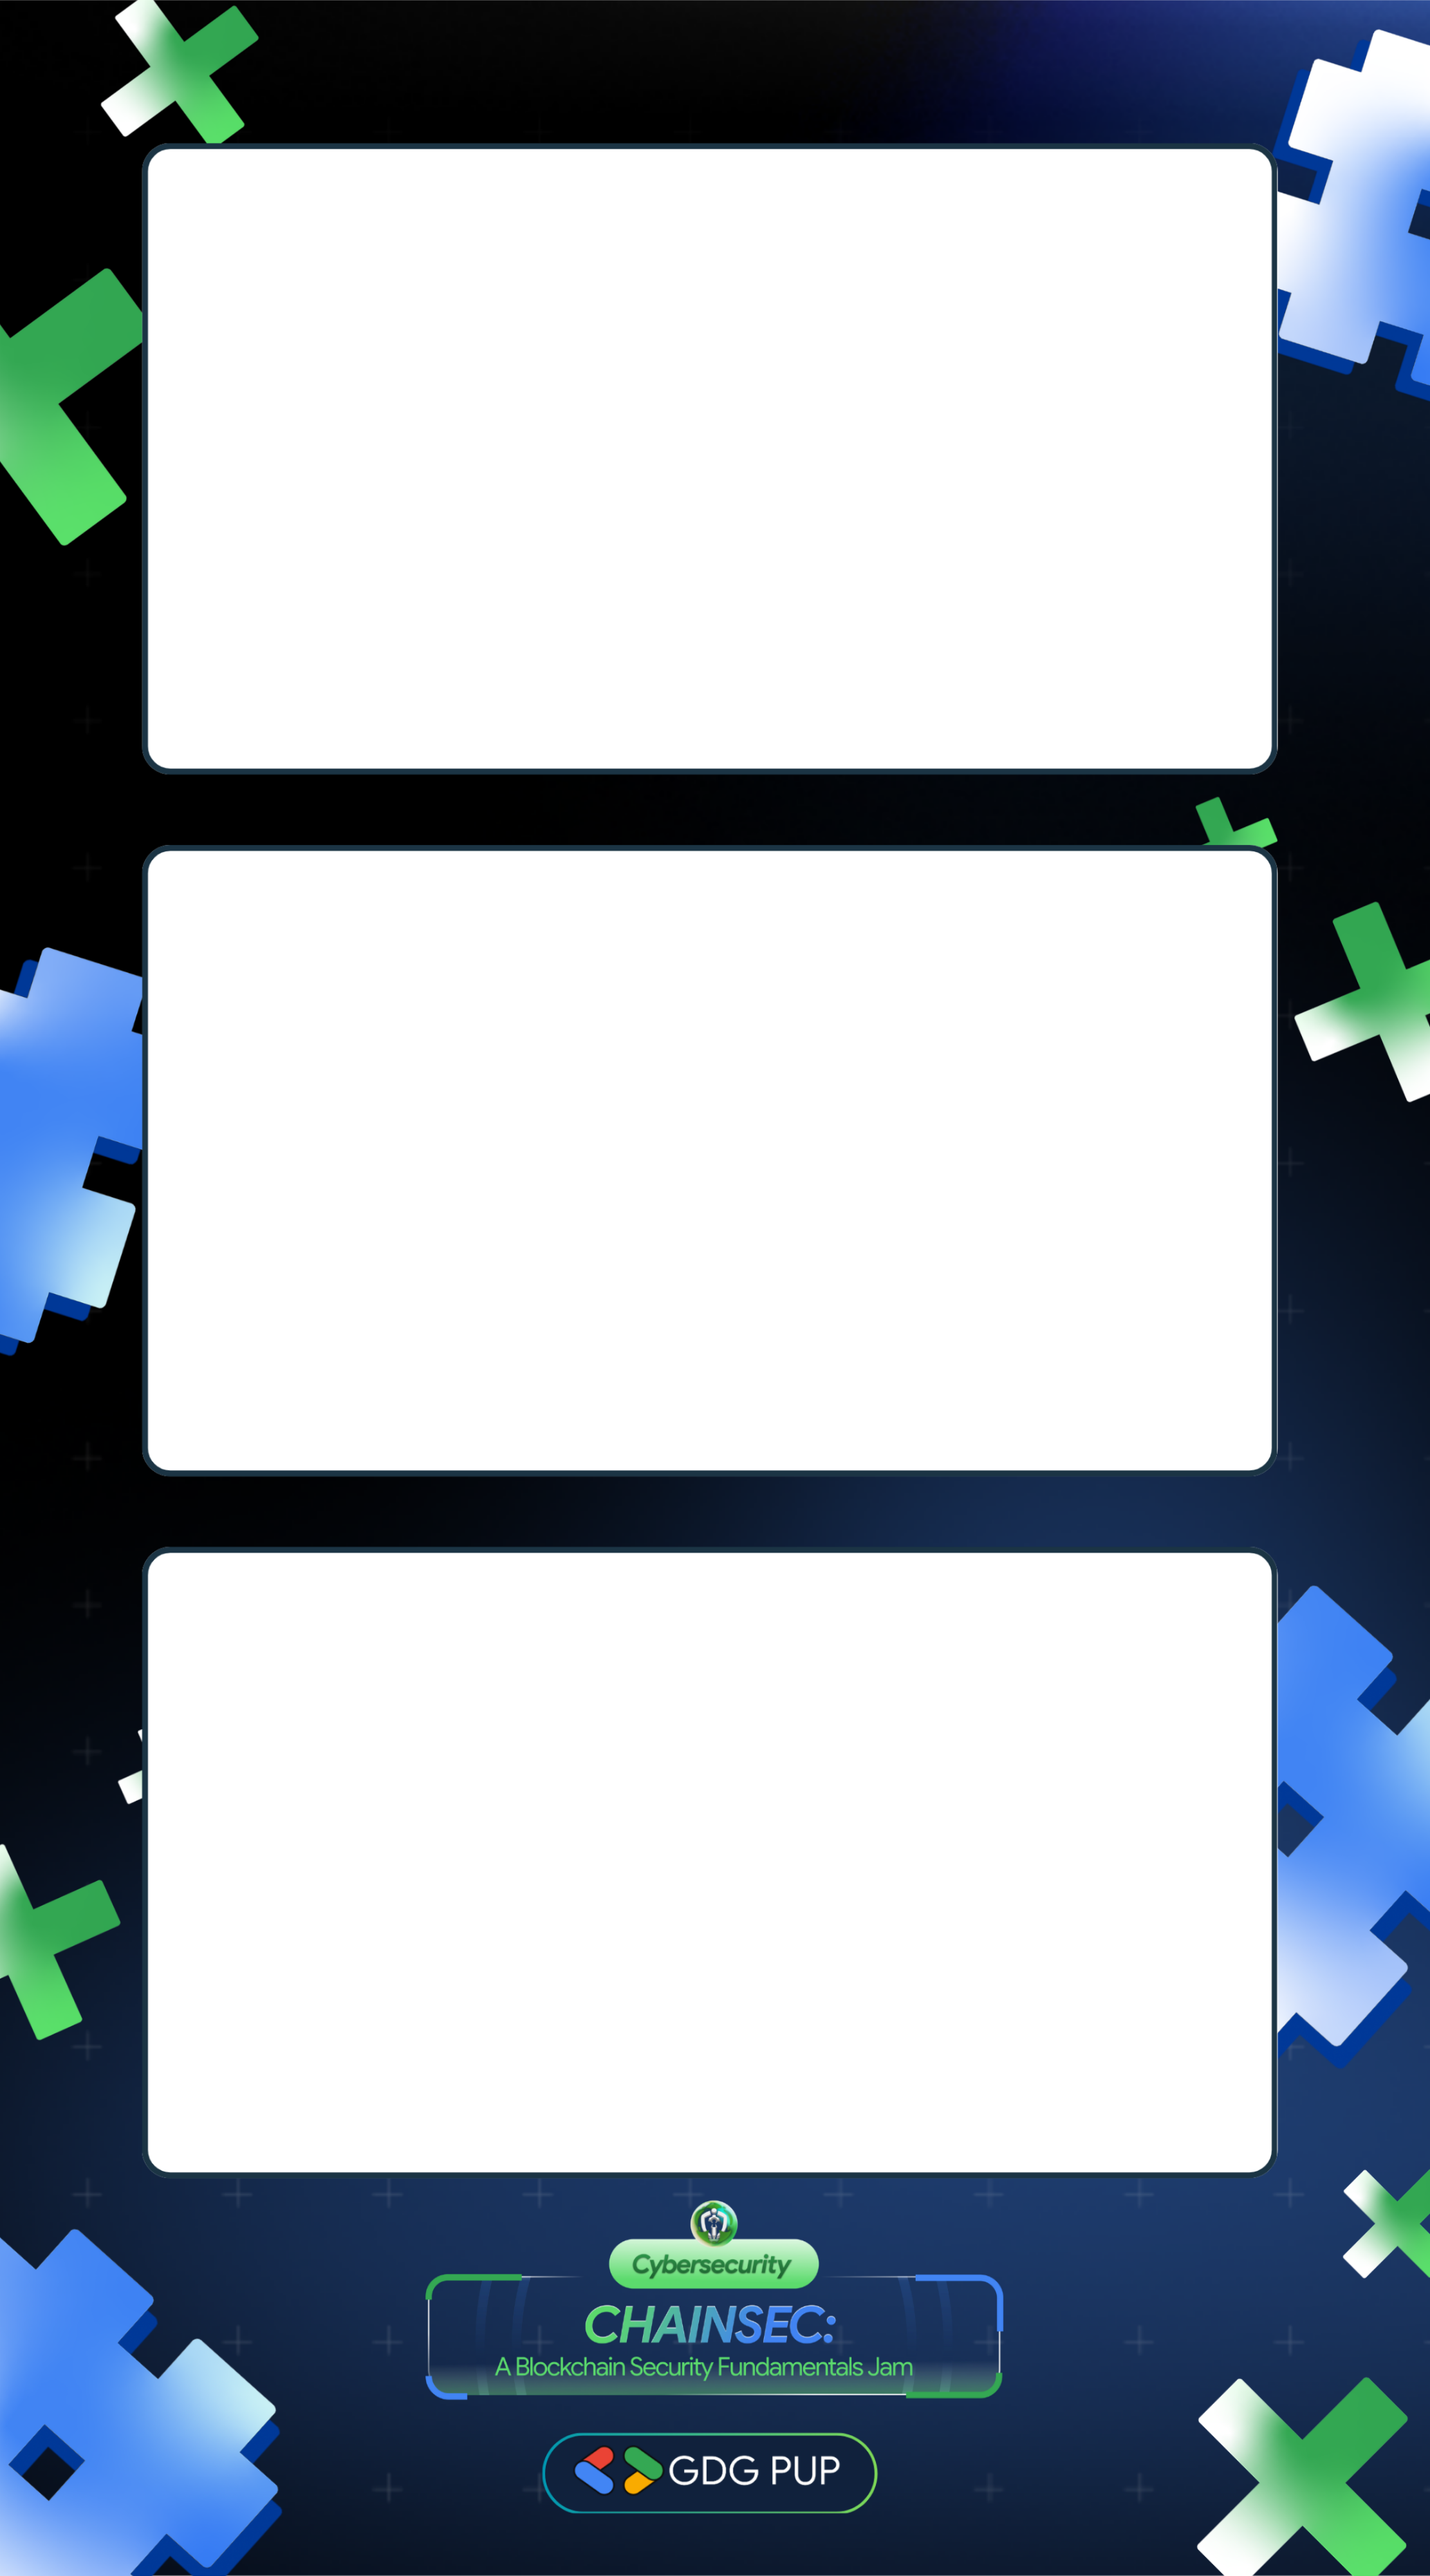
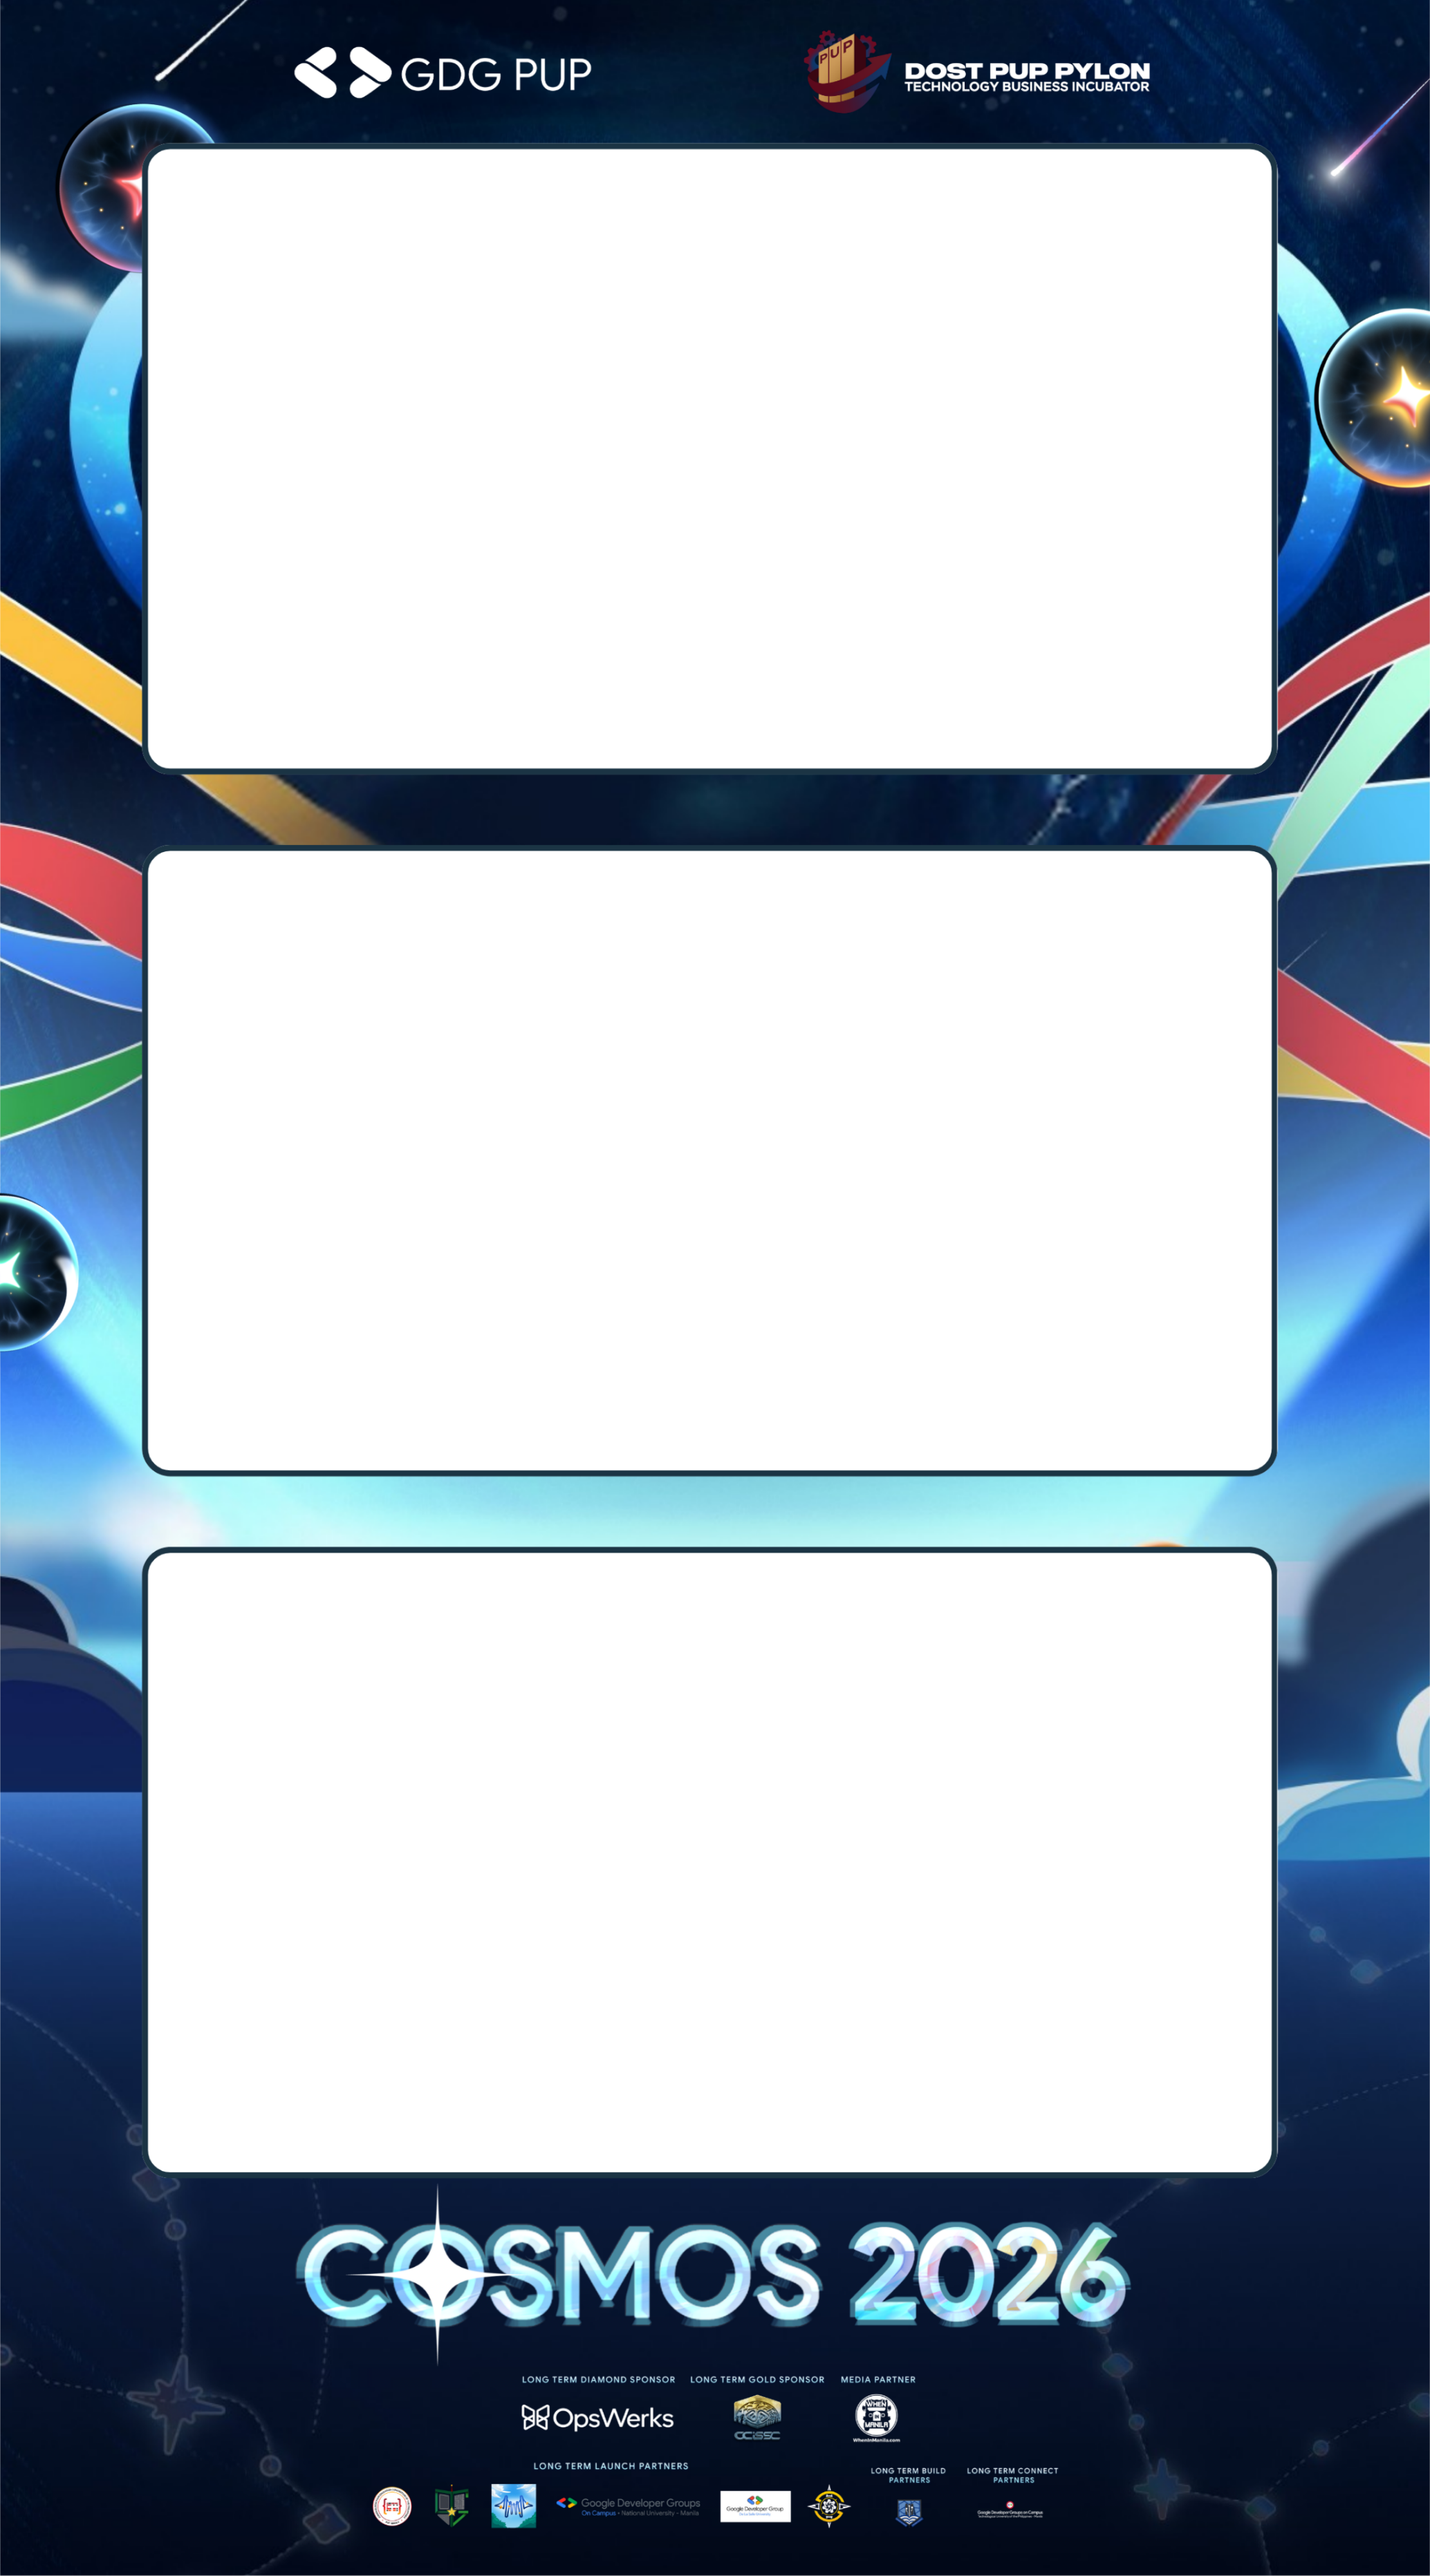
refactor: remove cybersec acc and the previous polaroid

diff --git a/src/components/CameraBooth/utils/faceFilters.ts b/src/components/CameraBooth/utils/faceFilters.ts
@@ -32,7 +32,7 @@ export const STICKER_FILTERS: Filter[] = [
   { id: "alien_antennae", name: "Alien",        emoji: "👽",  description: "Alien antennae" },
   { id: "alien_ears",     name: "Alien Ears",   emoji: "🖖",  description: "Pointy alien ears" },
   { id: "space_visor",    name: "Space Visor",  emoji: "🕶",  description: "Cosmos visor" },
-  { id: "cosmos_text",    name: "Chainsec",     emoji: "💚",  description: "Arced chainsec text" },
+  { id: "cosmos_text",    name: "Cosmos 2026",  emoji: "✨",  description: "Arced cosmos 2026 text" },
   { id: "stars",          name: "Stars",        emoji: "⭐",  description: "Falling stars" },
   { id: "binary_rain",    name: "Binary Rain",  emoji: "💻",  description: "Matrix-style 0s and 1s" },
   { id: "hacker_visor",   name: "Hacker Visor", emoji: "👁",  description: "Green terminal HUD visor" },
@@ -359,7 +359,7 @@ export const drawCosmosText = (
   );
 
   const radius   = faceW * 0.6 + faceH * 0.18;
-  const text     = "chainsec";
+  const text     = "cosmos 2026";
   const fontSize = faceW * 0.13;
 
   ctx.save();
@@ -384,17 +384,17 @@ export const drawCosmosText = (
     ctx.scale(-1, 1);
 
     // Glow
-    ctx.shadowColor = "rgba(0, 255, 70, 0.9)";
+    ctx.shadowColor = "rgba(230, 203, 241, 0.9)";
     ctx.shadowBlur  = 14;
 
     const tGrad = ctx.createLinearGradient(0, -fontSize / 2, 0, fontSize / 2);
-    tGrad.addColorStop(0,   "#AFFFB0");
-    tGrad.addColorStop(0.5, "#00FF41");
-    tGrad.addColorStop(1,   "#00AA2A");
+    tGrad.addColorStop(0,   "#F5E9F9");
+    tGrad.addColorStop(0.5, "#86D5FD");
+    tGrad.addColorStop(1,   "#C199D6");
     ctx.fillStyle = tGrad;
     ctx.fillText(char, 0, 0);
 
-    ctx.strokeStyle = "rgba(0, 20, 0, 0.7)";
+    ctx.strokeStyle = "rgba(20, 0, 30, 0.7)";
     ctx.lineWidth   = 1.5;
     ctx.strokeText(char, 0, 0);
     ctx.restore();
@@ -417,7 +417,7 @@ export const drawCosmosText = (
       ctx.moveTo(0, 0);
       ctx.lineTo(Math.cos(a) * ss, Math.sin(a) * ss);
     }
-    ctx.strokeStyle = `rgba(0, 255, 65, ${0.6 + Math.sin(Date.now() * 0.008 + i) * 0.3})`;
+    ctx.strokeStyle = `rgba(230, 203, 241, ${0.6 + Math.sin(Date.now() * 0.008 + i) * 0.3})`;
     ctx.lineWidth   = 1.8;
     ctx.lineCap     = "round";
     ctx.stroke();

diff --git a/src/app/api/sendEmail/route.ts b/src/app/api/sendEmail/route.ts
@@ -1,8 +1,8 @@
 import nodemailer from "nodemailer";
 import { getEmailTemplate } from "./emailTemplate";
 
-const emailBcc = ["gdgpupwebdev@gmail.com"];
-const emailCc = ["gdgpup.technologydepartment@gmail.com"];
+// const emailBcc = ["gdgpupwebdev@gmail.com"];
+// const emailCc = ["gdgpup.technologydepartment@gmail.com"];
 // const emailCc = ["salesrhandie@gmail.com"];
 
 export async function POST(req: Request) {
@@ -72,8 +72,8 @@ export async function POST(req: Request) {
     const mailOptions = {
       from: `"GDG Photobooth" <${process.env.SMTP_USER}>`,
       to: email,
-      cc: emailCc.join(", ") || "",
-      bcc: emailBcc.join(", ") || "",
+      // cc: emailCc.join(", ") || "",
+      // bcc: emailBcc.join(", ") || "",
       subject: "✨ Your Cosmos 2026 Photostrip is Here! | GDG on Campus PUP",
       text: "Hey Sparkmate! Your photostrip from Cosmos 2026 is attached. Thanks for joining us at GDG on Campus PUP!",
       html: htmlContent,
